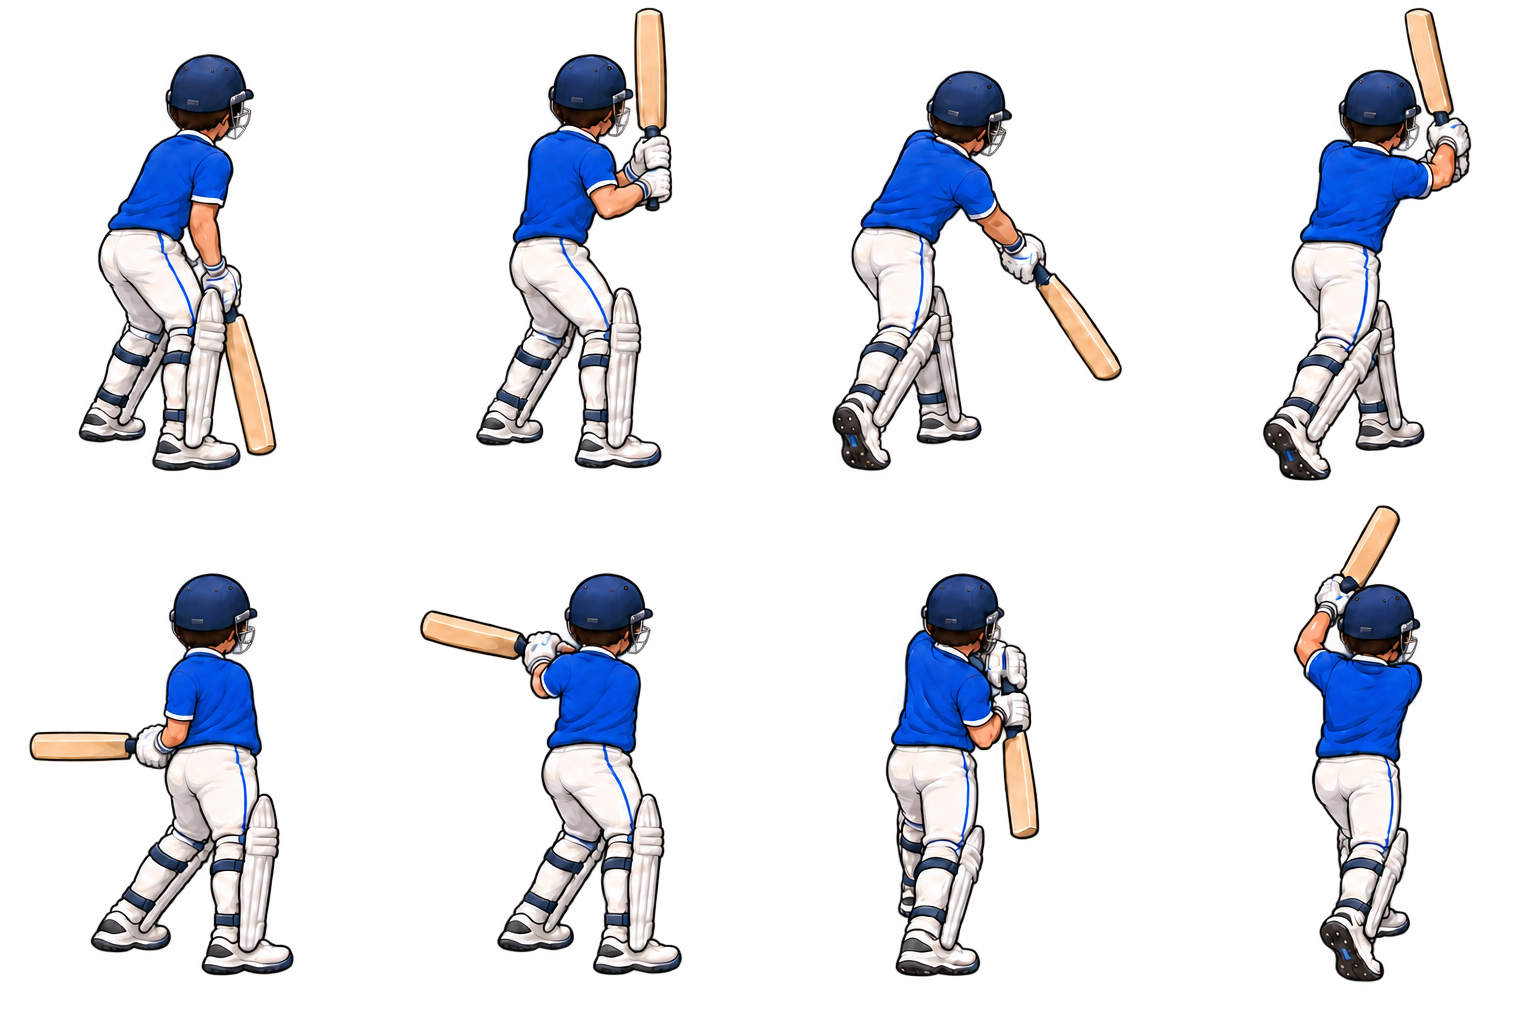
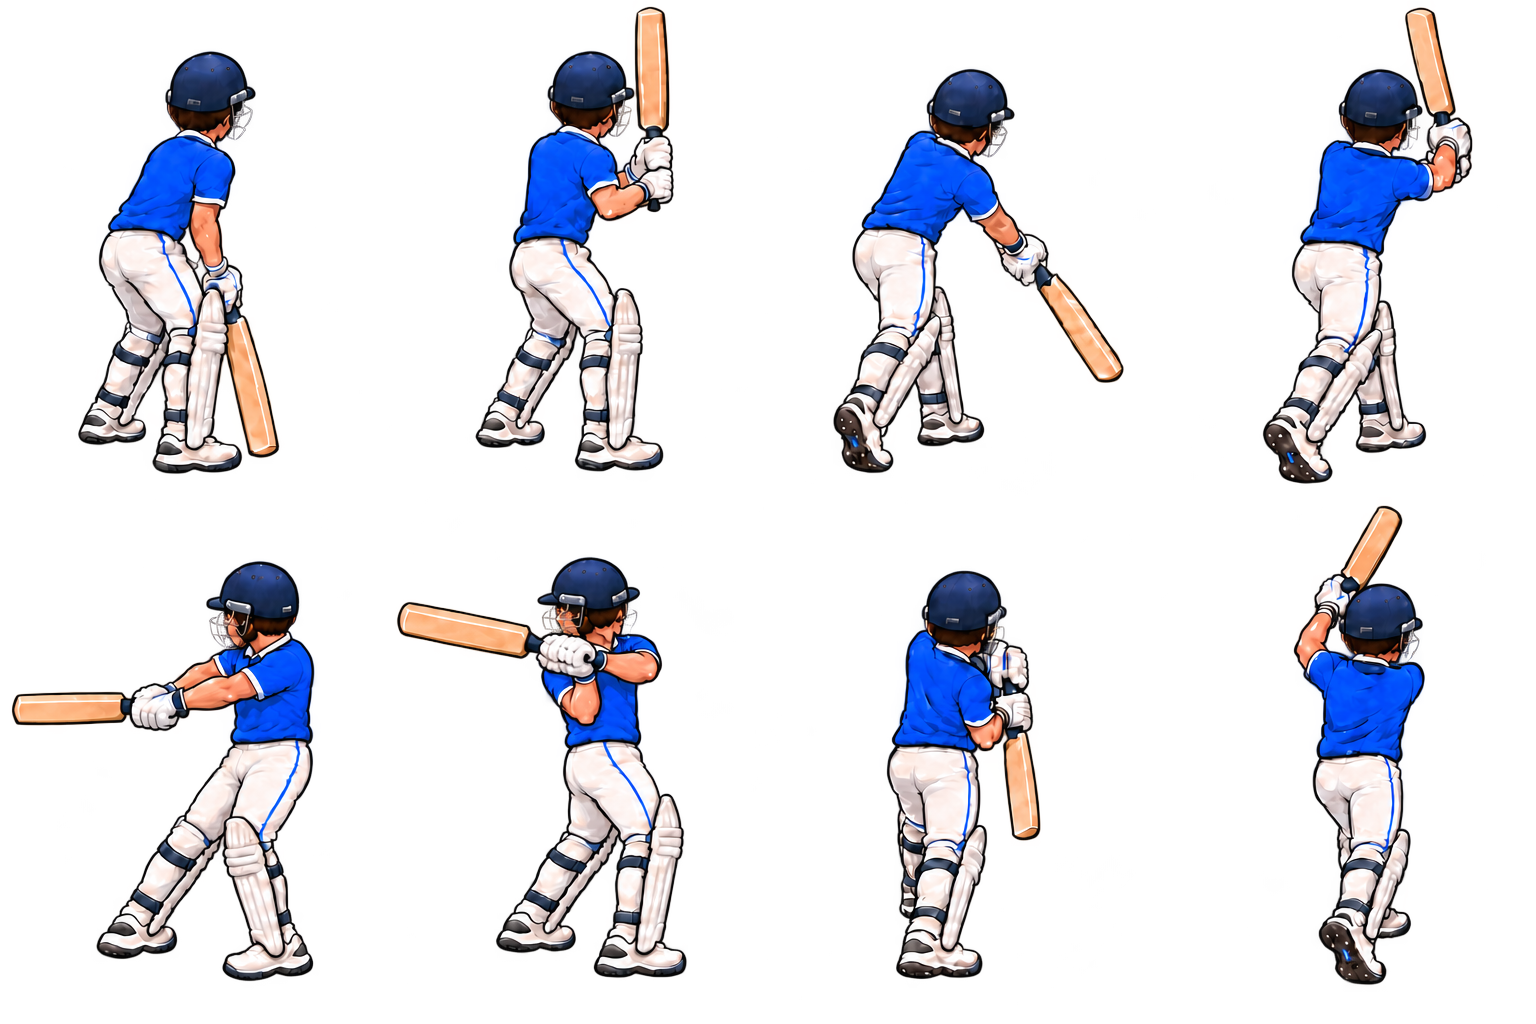
Correct pull shot arm anatomy and two-handed follow-through grip

diff --git a/src/arcade.js b/src/arcade.js
@@ -438,7 +438,7 @@
     document.querySelector('.menu-note').textContent = 'Batting artwork could not load. Please refresh the game.';
   };
   battingSheet.src = 'assets/liam-batting-right.png';
-  legSheet.src = 'assets/liam-leg-pull.png';
+  legSheet.src = 'assets/liam-leg-pull.png?v=anatomy-2';
   // Dedicated authored pull poses preserve the stance, grip and eyeline.
   // Do not reuse/mirror an off-side drive or transplant heads and bat parts.
   const CELL_W = 384, CELL_H = 512;

diff --git a/docs/LEG-SIDE-ART.md b/docs/LEG-SIDE-ART.md
@@ -1,4 +1,21 @@
-# Leg-side pull correction
+# Leg-side pull correction — revision history
+
+## Anatomy revision
+
+The initial replacement below held the torso too rigidly. The current asset opens the shoulders and extends both arms in front of the chest. The left top hand stays nearest the handle butt; the right bottom hand stays nearest the blade. The head follows the shot instead of being locked to the stance. Automated tests check loading and frame selection; anatomy requires visual inspection.
+
+Current asset: `assets/liam-leg-pull.png`, revised using the built-in image generation tool with these prompts:
+
+Correct ONLY bottom row first two cells in this 1536x1024 transparent cricket atlas (4 columns x2 rows, cells384x512). These two sprites have anatomical errors: contact arms are BEHIND BACK and followthrough LEFT WRIST IS REVERSED. Redraw both from anatomy first as a real RIGHT-HANDED cricket pull. Keep same person kit proportions scale, but DO NOT LOCK TORSO OR HEAD ORIENTATION to original. Allow ribcage shoulders and hips to rotate naturally toward leg side. Keep original right-handed foot order, screen-right lead foot ahead and screen-left back foot behind, no stance reversal. Contact cell: shoulders open toward screen-left so CHEST/SIDE becomes visible, both upper arms project FORWARD from chest, elbows in front of ribs, forearms extend naturally toward screen-left, two gloves together holding handle ahead of abdomen at waist height. Bat horizontal pointing left, blade sweetspot local x65 y240. No arm behind spine, no bat behind hips, no isolated dangling hand. Head follows ball over front shoulder, not facing away from delivery. Followthrough cell: same feet with modest back-heel pivot, shoulders continue turning, BOTH arms sweep across FRONT of chest; bat finishes around left shoulder. Maintain SAME HAND ORDER throughout: anatomical LEFT hand top hand at handle butt, anatomical RIGHT hand bottom hand nearer wooden blade. On leftward-pointing bat this means RIGHT glove is nearer screen-left blade, LEFT glove nearer screen-right handle cap. Left palm wraps handle with thumb naturally opposing fingers, knuckles on outside, wrist straight inline with its forearm; do NOT rotate glove backward or swap palms/knuckles. Two hands and exactly two arms visible with plausible shoulder-elbow-wrist chains. Match attractive outlined illustration navy round helmet grille blue shirt cream trousers white pads. Headtop local y60 feetbaseline470. Other six cells unchanged. Genuine transparent alpha background no grid/text.
+
+Refinement:
+Refine ONLY bottom row second cell in this atlas. Keep corrected bottom-left contact pose EXACTLY as supplied: its open chest and two forward arms are correct. In bottom-second followthrough head currently turns the WRONG way: rotate head so face/grille looks SCREEN LEFT over the left shoulder following the departing ball, consistent with bottom-left contact. Keep torso open with visible shirt chest, both elbows IN FRONT of chest. Correct two-handed right-handed grip with LEFT top hand nearest butt on screen-right and RIGHT bottom hand nearest blade on screen-left. Show natural wrapped fingers, thumb on inner side of handle, glove backs facing camera, two straight aligned wrists, no reversed palm or corkscrewed wrist. Right forearm crosses in front of chest to blade-near hand, left elbow bends naturally toward handle-butt hand. Bat continues leftward at shoulder height. Preserve feet order and all other cells, true transparent alpha, full1536x1024 4x2 layout.
+
+Final transparency cleanup prompt:
+
+Background extraction ONLY. Keep all eight cricket sprites EXACTLY unchanged including their anatomical poses, fingers, wrists, faces, colors and positions. Remove ALL smoky colored background, glow, blur, shadows, haze, checkerboard, semi-transparent rectangles, and pixelated halos surrounding every sprite. Everything outside the precise crisp character silhouette must be alpha ZERO transparent, including gaps between arms and torso, bat and body, legs. Output exact1536x1024 PNG RGBA transparent atlas4x2. No new backdrop. Clean hard-cut game sprites with antialiasing ONLY on silhouette edges. DO NOT redraw or alter any part of the cricketers.
+
+## Superseded first revision
 
 The recording showed a reversal between the ready stance and leg-side contact. The replacement uses dedicated contact and follow-through artwork with consistent foot order and helmet direction. The previous canvas head replacement and isolated bat rotation have been removed.
 

diff --git a/README.md b/README.md
@@ -27,7 +27,7 @@ Original illustrated right-handed batting sprites over a procedural canvas groun
 
 The batsman uses eight authored poses in `assets/liam-batting-right.png`: stance, backlift, and distinct contact/follow-through pairs. Images are never mirrored. The right-handed stance and helmet stay consistent for both shot directions. Input, timing and scoring remain separate from the artwork.
 
-The leg-side pair uses dedicated artwork in `assets/liam-leg-pull.png`. Contact and follow-through retain the ready stance's foot order and helmet direction while the bat travels to the leg side. The original atlas still supplies the other six poses. The earlier head transplant and isolated bat rotation are removed; see `docs/LEG-SIDE-ART.md`.
+The leg-side pair uses dedicated artwork in `assets/liam-leg-pull.png`. Contact and follow-through retain right-handed foot order while the shoulders open, both arms extend in front of the chest, and the head follows the leg-side shot. The original atlas still supplies the other six poses. The earlier head transplant and isolated bat rotation are removed; see `docs/LEG-SIDE-ART.md`.
 
 `src/arcade-rules.js` contains the pure timing and innings rules. `src/arcade.js` contains input, match state, animation, artwork and local score storage. `arcade.css` handles desktop and mobile layouts.
 
